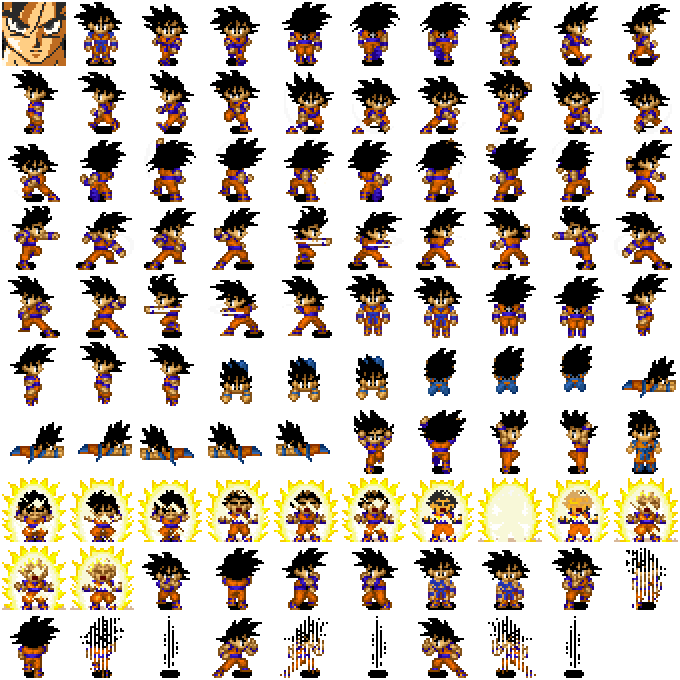
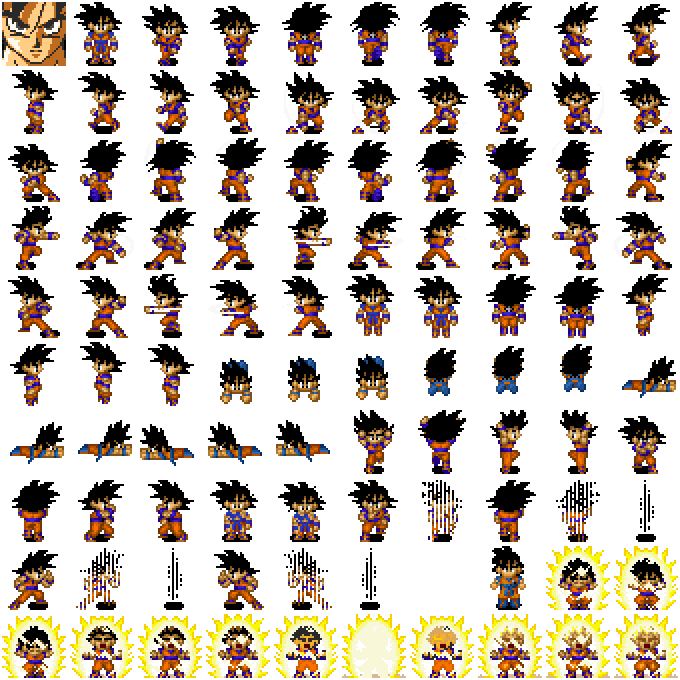
.

Changed region(s): [[0.0, 0.5868, 1.0, 1.0]]

diff --git a/src/scenes/juego.js b/src/scenes/juego.js
@@ -8,56 +8,68 @@ class Juego extends Phaser.Scene {
         });
     };
     create() {
-        this.gokuAdult = new Npcs(this, 50, 70, 'GokuAdultoGT', 1, 1);
-        this.gokuss2 = new Npcs(this, 150, 70, 'Goku SS2', 2, 2);
-        this.gokuss3 = new Npcs(this, 250, 70, 'Goku SS3', 2, 4);
-        this.gokuss4 = new Npcs(this, 350, 70, 'Goku SS4', 1, 8);
-        this.gokuss5 = new Npcs(this, 450, 70, 'Goku SS5', 1, 16);
+        this.gokuAdult = new Npcs(this, 50, 100, 'GokuAdultoGT', 1, 1);
+        this.gokuss = new Npcs(this, 150, 100, 'Goku SS', 1, 2);
+        this.gokuss2 = new Npcs(this, 250, 100, 'Goku SS2', 1, 4);
+        this.gokuss3 = new Npcs(this, 350, 100, 'Goku SS3', 1, 8);
+        this.gokuss4 = new Npcs(this, 450, 100, 'Goku SS4', 1, 16);
+        this.gokuss5 = new Npcs(this, 550, 100, 'Goku SS5', 1, 32);
+        this.GoldenDestroyer = new Npcs(this, 700, 100, 'Golden Destroyer', 1, 64);
         this.enemigo = false;
-        this.enemigos = this.add.group([this.gokuAdult, this.gokuss2, this.gokuss3, this.gokuss4, this.gokuss5]);
+        this.enemigos = this.add.group([this.gokuAdult, this.GoldenDestroyer, this.gokuss, this.gokuss2, this.gokuss3, this.gokuss4, this.gokuss5]);
         this.player = new Player(this, 100, 200, 'Goku', 1);
         //buscar correccion de bug que sigue en target cuando no lo esta... 
         this.physics.add.collider(this.enemigos, this.player, null, this.SeleccionarEnemigo, this);
         this.teclas = this.input.keyboard.addKeys('up,down,left,right,a,d');
         this.dir = 'Abajo';
-        this.add.text(this.game.config.width - 110, 40, `
+        this.make.text({
+            x: this.game.config.width - 150,
+            y: 50,
+            text: `
         Instrucciones:
         Moverse: Flechas
         Golpear: A
         Generar mas npcs: D
-        `, {
-            fontFamily: 'Verdana',
-            fontSize: '15px',
-            color: 'red'
+        `,
+            style: {
+                font: '18px monospace',
+                fill: '#ffffff'
+            }
         }).setOrigin(0.5, 0.5);
-        let text = `
-        Nivel: ${this.player.nivel}.
-        exp: ${this.player.exp}/${this.player.nexp}.
-        vida: ${this.player.vida}/${this.player.maxVida}.
-        ki: ${this.player.ki}/${this.player.maxKi}.
-        fuerza: ${this.player.fuerza}.
-        defensa: ${this.player.defensa}.
-        ki Defensa: ${this.player.kiDefensa}.
-        statsPoint ${this.player.statsPoints}.
-        zenie: ${this.player.zenie}.
-        `;
         //stats
-        this.statsNivel = this.add.text(this.game.config.width / 2, 100, text, {
-            fontFamily: 'Verdana',
-            fontSize: '15px',
-            color: 'red'
+        let text = `
+        Nivel: ${this.player.nivel}
+        exp: ${this.player.exp}/${this.player.nexp}
+        vida: ${this.player.vida}/${this.player.maxVida}
+        ki: ${this.player.ki}/${this.player.maxKi}
+        fuerza: ${this.player.fuerza}
+        defensa: ${this.player.defensa}
+        ki Defensa: ${this.player.kiDefensa}
+        statsPoint ${this.player.statsPoints}
+        zenie: ${this.player.zenie}
+        `;
+        this.statsNivel = this.make.text({
+            x: this.game.config.width / 2,
+            y: this.game.config.width / 4,
+            text: text,
+            style: {
+                font: '18px monospace',
+                fill: '#ffffff'
+            }
         }).setOrigin(0.5, 0.5);
+
     }
     update(time, delta) {
 
-
         if (Phaser.Input.Keyboard.JustDown(this.teclas.d)) {
             this.gokuAdult = new Npcs(this, Phaser.Math.Between(50, this.game.config.width - 50), Phaser.Math.Between(50, this.game.config.height - 50), 'GokuAdultoGT', 1, 1);
-            this.gokuss2 = new Npcs(this, Phaser.Math.Between(50, this.game.config.width - 50), Phaser.Math.Between(50, this.game.config.height - 50), 'Goku SS2', 2, 2);
-            this.gokuss3 = new Npcs(this, Phaser.Math.Between(50, this.game.config.width - 50), Phaser.Math.Between(50, this.game.config.height - 50), 'Goku SS3', 2, 4);
-            this.gokuss4 = new Npcs(this, Phaser.Math.Between(50, this.game.config.width - 50), Phaser.Math.Between(50, this.game.config.height - 50), 'Goku SS4', 1, 8);
-            this.gokuss5 = new Npcs(this, Phaser.Math.Between(50, this.game.config.width - 50), Phaser.Math.Between(50, this.game.config.height - 50), 'Goku SS5', 1, 16);
-            this.enemigos = this.add.group([this.gokuAdult, this.gokuss2, this.gokuss3, this.gokuss4, this.gokuss5]);
+            this.gokuss = new Npcs(this, Phaser.Math.Between(50, this.game.config.width - 50), Phaser.Math.Between(50, this.game.config.height - 50), 'Goku SS', 1, 2);
+            this.gokuss2 = new Npcs(this, Phaser.Math.Between(50, this.game.config.width - 50), Phaser.Math.Between(50, this.game.config.height - 50), 'Goku SS2', 1, 4);
+            this.gokuss3 = new Npcs(this, Phaser.Math.Between(50, this.game.config.width - 50), Phaser.Math.Between(50, this.game.config.height - 50), 'Goku SS3', 1, 8);
+            this.gokuss4 = new Npcs(this, Phaser.Math.Between(50, this.game.config.width - 50), Phaser.Math.Between(50, this.game.config.height - 50), 'Goku SS4', 1, 16);
+            this.gokuss5 = new Npcs(this, Phaser.Math.Between(50, this.game.config.width - 50), Phaser.Math.Between(50, this.game.config.height - 50), 'Goku SS5', 1, 32);
+            this.GoldenDestroyer = new Npcs(this, Phaser.Math.Between(50, this.game.config.width - 50), Phaser.Math.Between(50, this.game.config.height - 50), 'Golden Destroyer', 1, 64);
+            this.enemigos = this.add.group([this.gokuAdult, this.GoldenDestroyer, this.gokuss, this.gokuss2, this.gokuss3, this.gokuss4, this.gokuss5]);
             this.physics.add.collider(this.enemigos, this.player, null, this.SeleccionarEnemigo, this);
 
         }
@@ -70,15 +82,21 @@ class Juego extends Phaser.Scene {
             }, 350);
             let damage = this.player.Golpe(this.enemigo, this.dir);
             if (!this.enemigo.active) return;
-            let showDamage = this.add.text(this.enemigo.body.x + 25, this.enemigo.body.y - 10, `Daño: ${damage}`, {
-                fontFamily: 'Verdana',
-                fontSize: '12px',
-                color: 'red'
+            let showDamage = this.make.text({
+                x: this.enemigo.body.x + 25,
+                y: this.enemigo.body.y,
+                text: `Daño: ${damage}`,
+                style: {
+                    font: '13px monospace',
+                    fill: '#ffffff'
+                }
             }).setOrigin(0.5, 0.5);
+
             setTimeout(() => {
                 showDamage.destroy();
             }, 300);
             this.enemigo.takeDamage(damage, this.player);
+            this.enemigo = false;
         };
         if (this.teclas.down.isDown && !this.player.body.wasTouching.down) {
             this.player.Mover('Abajo');

diff --git a/src/bootloader.js b/src/bootloader.js
@@ -66,31 +66,37 @@ class Bootloader extends Phaser.Scene {
             this.scene.start("Juego");
         });
 
-        this.load.spritesheet('GokuAdultoGT', './src/assets/GokuAdultoGT.png', {
-            frameHeight: 32,
-            frameWidth: 32,
-            margin: 2,
-            spacing: 2
+        this.load.spritesheet('GokuAdultoGT', './src/assets/AdultGTGoku.png', {
+            frameHeight: 68,
+            frameWidth: 68,
         });
         this.load.spritesheet('Goku', './src/assets/goku.png', {
             frameHeight: 68,
             frameWidth: 68
         });
+        this.load.spritesheet('Goku SS', './src/assets/Gokuss.png', {
+            frameHeight: 68,
+            frameWidth: 68
+        });
         this.load.spritesheet('Goku SS2', './src/assets/Gokuss2.png', {
-            frameHeight: 32,
-            frameWidth: 32
+            frameHeight: 68,
+            frameWidth: 68
         });
         this.load.spritesheet('Goku SS3', './src/assets/Gokuss3.png', {
-            frameHeight: 32,
-            frameWidth: 32
+            frameHeight: 68,
+            frameWidth: 68
         });
         this.load.spritesheet('Goku SS4', './src/assets/Gokuss4.png', {
-            frameHeight: 32,
-            frameWidth: 32
+            frameHeight: 68,
+            frameWidth: 68
         });
         this.load.spritesheet('Goku SS5', './src/assets/GokuSS5.png', {
-            frameHeight: 32,
-            frameWidth: 32
+            frameHeight: 68,
+            frameWidth: 68
+        });
+        this.load.spritesheet('Golden Destroyer', './src/assets/golden destroyer64.png', {
+            frameHeight: 136,
+            frameWidth: 136
         });
     };
     create() {

diff --git a/src/gameObjects/player.js b/src/gameObjects/player.js
@@ -78,27 +78,31 @@ class Player extends Sprite {
                 nextExp += 1000 * multiplicador;
                 this.exp = Math.abs(this.exp - nextExp);
             }
-            let showLvlUp = this.escena.add.text(this.body.x + 25, this.body.y + 30, `Level UP`, {
-                fontFamily: 'Verdana',
-                fontSize: '12px',
-                color: 'red'
+            let showLvlUp = this.escena.make.text({
+                x: this.body.x + 25,
+                y: this.body.y + 30,
+                text: 'Level UP',
+                style: {
+                    font: '13px monospace',
+                    fill: '#ffffff'
+                }
             }).setOrigin(0.5, 0.5);
             setTimeout(() => {
                 showLvlUp.destroy();
-            }, 1000);
+            }, 1200);
             this.LvlUp(multiplicador + this.bonusNivel);
         };
         //debug
         this.escena.statsNivel.text = `
-                Nivel: ${this.nivel}.
-                exp: ${this.exp}/${this.nexp}.
-                vida: ${this.vida}/${this.maxVida}.
-                ki: ${this.ki}/${this.maxKi}.
-                fuerza: ${this.fuerza}.
-                defensa: ${this.defensa}.
-                ki Defensa: ${this.kiDefensa}.
-                statsPoint: ${this.statsPoints}.
-                zenie: ${this.zenie}.
+        Nivel: ${this.nivel}
+        exp: ${this.exp}/${this.nexp}
+        vida: ${this.vida}/${this.maxVida}
+        ki: ${this.ki}/${this.maxKi}
+        fuerza: ${this.fuerza}
+        defensa: ${this.defensa}
+        ki Defensa: ${this.kiDefensa}
+        statsPoint: ${this.statsPoints}
+        zenie: ${this.zenie}
             `;
     };
 };

diff --git a/src/gameObjects/npcs.js b/src/gameObjects/npcs.js
@@ -14,25 +14,25 @@ class Npcs extends Sprite {
         this.zenie = (this.nivel * 5) + Phaser.Math.Between(1, 10);
         this.exp = Math.round((this.nivel * 50) + Phaser.Math.Between(1, 10));
         this.escena = scene;
-        this.setScale(2);
     };
     takeDamage(Damage, Player) {
         this.vida -= Damage;
         if (this.vida <= Damage) {
             let exp = this.exp * Player.expboost;
-            let showExp = this.scene.add.text(Player.body.x + 25, Player.body.y - 10, `exp: ${exp}`, {
-                fontFamily: 'Verdana',
-                fontSize: '12px',
-                color: 'red'
-            }).setOrigin(0.5, 0.5);
-            let showZenie = this.scene.add.text(Player.body.x + 25, Player.body.y, `Zenie: ${this.zenie}`, {
-                fontFamily: 'Verdana',
-                fontSize: '12px',
-                color: 'red'
+            let showExpZenie = this.escena.make.text({
+                x: Player.body.x + 25,
+                y: Player.body.y,
+                text: `
+    exp: ${exp}
+    Zenie: ${this.zenie}
+                `,
+                style: {
+                    font: '13px monospace',
+                    fill: '#ffffff'
+                }
             }).setOrigin(0.5, 0.5);
             setTimeout(() => {
-                showZenie.destroy();
-                showExp.destroy();
+                showExpZenie.destroy();
             }, 2000);
             Player.DarExp(exp);
             Player.DarZenie(this.zenie);
